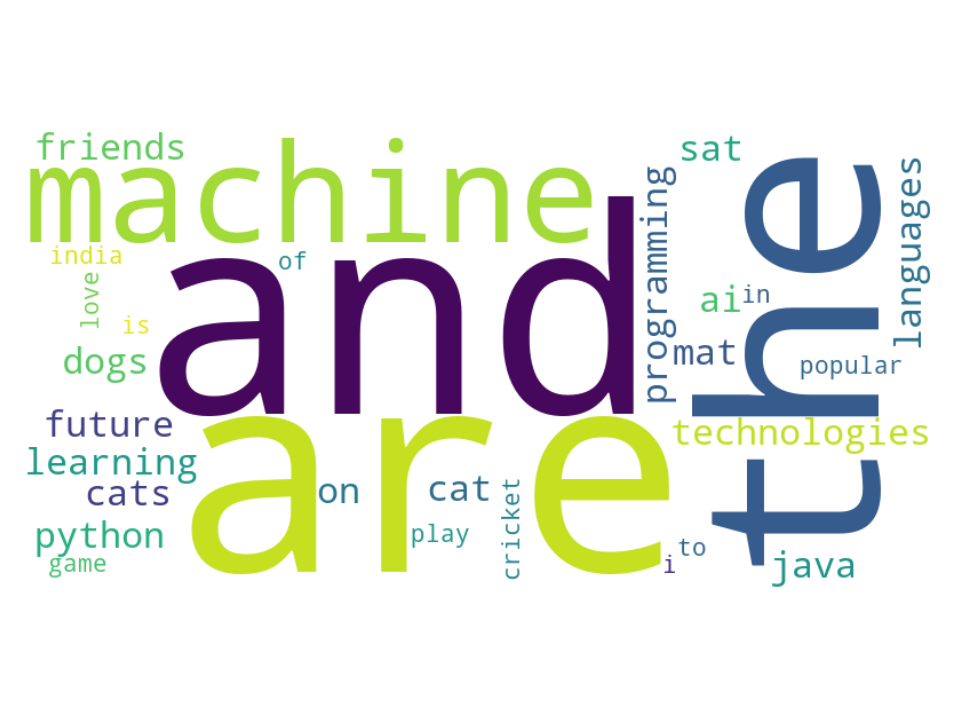
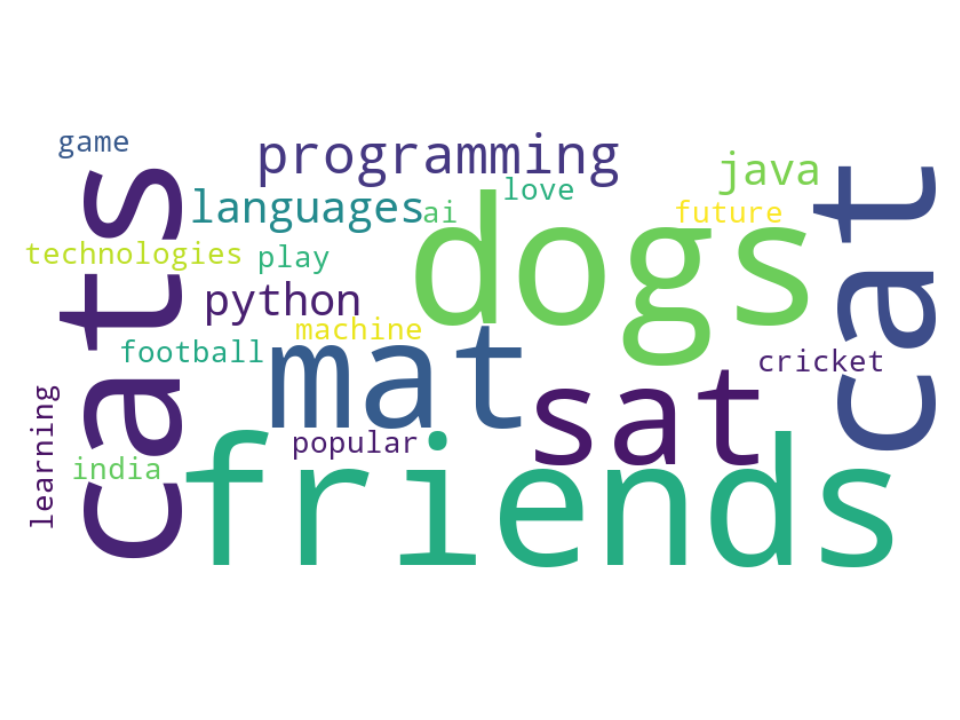
all programs

Changed region(s): [[0.0312, 0.1833, 1.0, 0.825]]

diff --git a/pyldavis_html/topics_2.html b/pyldavis_html/topics_2.html
@@ -2,10 +2,10 @@
 <link rel="stylesheet" type="text/css" href="https://cdn.jsdelivr.net/gh/bmabey/pyLDAvis@3.4.0/pyLDAvis/js/ldavis.v1.0.0.css">
 
 
-<div id="ldavis_el2868422122042350081931763623" style="background-color:white;"></div>
+<div id="ldavis_el2496819180047041129032564959" style="background-color:white;"></div>
 <script type="text/javascript">
 
-var ldavis_el2868422122042350081931763623_data = {"mdsDat": {"x": [0.06614517228839449, -0.06614517228839449], "y": [0.0, 0.0], "topics": [1, 2], "cluster": [1, 1], "Freq": [62.373591153601026, 37.626408846398974]}, "tinfo": {"Term": ["football", "to", "popular", "play", "i", "india", "game", "is", "in", "cricket", "love", "of", "and", "are", "the", "machine", "technologies", "ai", "future", "learning", "python", "languages", "programming", "cat", "mat", "java", "on", "sat", "cats", "dogs", "and", "are", "machine", "technologies", "ai", "future", "learning", "python", "languages", "programming", "cat", "mat", "java", "on", "sat", "cats", "dogs", "friends", "the", "of", "love", "cricket", "in", "is", "game", "india", "i", "play", "popular", "to", "football", "to", "popular", "play", "i", "india", "game", "is", "in", "cricket", "love", "of", "the", "friends", "dogs", "cats", "sat", "on", "java", "mat", "cat", "programming", "languages", "python", "learning", "future", "ai", "technologies", "machine", "are", "and"], "Freq": [1.0, 1.0, 1.0, 1.0, 1.0, 1.0, 1.0, 1.0, 1.0, 1.0, 1.0, 1.0, 2.0, 2.0, 2.0, 1.0, 1.0, 1.0, 1.0, 1.0, 1.0, 1.0, 1.0, 1.0, 1.0, 1.0, 1.0, 1.0, 1.0, 1.0, 2.043477278346361, 2.0424048498806853, 0.8761980429522029, 0.8760737258477163, 0.8760297935929495, 0.8759562006182326, 0.8759437345185435, 0.8742357069149218, 0.8740449326031265, 0.8739662672154327, 0.8738991222233137, 0.8738322351504986, 0.8735634832358199, 0.8735192930617492, 0.8734237769461997, 0.8726761548572535, 0.872485896384066, 0.8713252595164518, 1.4540840398041128, 0.2963588017184749, 0.2961588067915647, 0.29607865836787334, 0.29605841170251607, 0.2960181547978301, 0.29600923508856974, 0.29599848845090665, 0.29582647776847115, 0.2958059946770853, 0.29565824990249306, 0.2955758016983418, 0.7275309710746454, 0.7275025503483121, 0.7274341953897223, 0.7273114883851521, 0.7272944255768243, 0.7271518033187652, 0.7271428829448066, 0.7271354147247482, 0.7271020151850427, 0.7270852116899114, 0.7270186719236968, 0.7268527114779553, 0.738801915433988, 0.24965066814430115, 0.24868744927600883, 0.24852952753935786, 0.24790909478548084, 0.24782974494736065, 0.24779315585533856, 0.24757006871241438, 0.24751462755100884, 0.24745882335112823, 0.24739352828825678, 0.24723519165049146, 0.24581768199330123, 0.2458072576028031, 0.24574626713899306, 0.2457098595662085, 0.24560660105137366, 0.2505185894128903, 0.24962839314072427], "Total": [1.0, 1.0, 1.0, 1.0, 1.0, 1.0, 1.0, 1.0, 1.0, 1.0, 1.0, 1.0, 2.0, 2.0, 2.0, 1.0, 1.0, 1.0, 1.0, 1.0, 1.0, 1.0, 1.0, 1.0, 1.0, 1.0, 1.0, 1.0, 1.0, 1.0, 2.293105671487085, 2.292923439293576, 1.1218046440035767, 1.1217835854139246, 1.1217760607319427, 1.1217634582210358, 1.1217614165118448, 1.1214708985654132, 1.1214384608913832, 1.1214250905665608, 1.1214137497743226, 1.1214023038629128, 1.1213566390911585, 1.12134903800911, 1.1213328717316804, 1.1212056823966114, 1.121173345660075, 1.120975927660753, 2.1928859552381006, 1.0232115131964301, 1.0231774787152617, 1.0231638700577848, 1.0231604268875587, 1.0231535695225782, 1.0231521180333762, 1.0231502917696718, 1.0231209033452955, 1.0231174830622374, 1.0230924452922154, 1.023078352046654, 1.0230725124921172, 1.023078352046654, 1.0230924452922154, 1.0231174830622374, 1.0231209033452955, 1.0231502917696718, 1.0231521180333762, 1.0231535695225782, 1.0231604268875587, 1.0231638700577848, 1.0231774787152617, 1.0232115131964301, 2.1928859552381006, 1.120975927660753, 1.121173345660075, 1.1212056823966114, 1.1213328717316804, 1.12134903800911, 1.1213566390911585, 1.1214023038629128, 1.1214137497743226, 1.1214250905665608, 1.1214384608913832, 1.1214708985654132, 1.1217614165118448, 1.1217634582210358, 1.1217760607319427, 1.1217835854139246, 1.1218046440035767, 2.292923439293576, 2.293105671487085], "Category": ["Default", "Default", "Default", "Default", "Default", "Default", "Default", "Default", "Default", "Default", "Default", "Default", "Default", "Default", "Default", "Default", "Default", "Default", "Default", "Default", "Default", "Default", "Default", "Default", "Default", "Default", "Default", "Default", "Default", "Default", "Topic1", "Topic1", "Topic1", "Topic1", "Topic1", "Topic1", "Topic1", "Topic1", "Topic1", "Topic1", "Topic1", "Topic1", "Topic1", "Topic1", "Topic1", "Topic1", "Topic1", "Topic1", "Topic1", "Topic1", "Topic1", "Topic1", "Topic1", "Topic1", "Topic1", "Topic1", "Topic1", "Topic1", "Topic1", "Topic1", "Topic2", "Topic2", "Topic2", "Topic2", "Topic2", "Topic2", "Topic2", "Topic2", "Topic2", "Topic2", "Topic2", "Topic2", "Topic2", "Topic2", "Topic2", "Topic2", "Topic2", "Topic2", "Topic2", "Topic2", "Topic2", "Topic2", "Topic2", "Topic2", "Topic2", "Topic2", "Topic2", "Topic2", "Topic2", "Topic2", "Topic2"], "logprob": [30.0, 29.0, 28.0, 27.0, 26.0, 25.0, 24.0, 23.0, 22.0, 21.0, 20.0, 19.0, 18.0, 17.0, 16.0, 15.0, 14.0, 13.0, 12.0, 11.0, 10.0, 9.0, 8.0, 7.0, 6.0, 5.0, 4.0, 3.0, 2.0, 1.0, -2.4242, -2.4248, -3.2711, -3.2712, -3.2712, -3.2713, -3.2713, -3.2733, -3.2735, -3.2736, -3.2737, -3.2738, -3.2741, -3.2741, -3.2742, -3.2751, -3.2753, -3.2766, -2.7645, -4.3551, -4.3557, -4.356, -4.3561, -4.3562, -4.3563, -4.3563, -4.3569, -4.3569, -4.3574, -4.3577, -2.9516, -2.9516, -2.9517, -2.9519, -2.9519, -2.9521, -2.9521, -2.9521, -2.9521, -2.9522, -2.9523, -2.9525, -2.9362, -4.0211, -4.025, -4.0256, -4.0281, -4.0285, -4.0286, -4.0295, -4.0297, -4.03, -4.0302, -4.0309, -4.0366, -4.0367, -4.0369, -4.0371, -4.0375, -4.0177, -4.0212], "loglift": [30.0, 29.0, 28.0, 27.0, 26.0, 25.0, 24.0, 23.0, 22.0, 21.0, 20.0, 19.0, 18.0, 17.0, 16.0, 15.0, 14.0, 13.0, 12.0, 11.0, 10.0, 9.0, 8.0, 7.0, 6.0, 5.0, 4.0, 3.0, 2.0, 1.0, 0.3568, 0.3563, 0.2249, 0.2248, 0.2248, 0.2247, 0.2247, 0.223, 0.2228, 0.2227, 0.2226, 0.2226, 0.2223, 0.2223, 0.2222, 0.2214, 0.2212, 0.2201, 0.0612, -0.7671, -0.7677, -0.768, -0.7681, -0.7682, -0.7682, -0.7683, -0.7688, -0.7689, -0.7694, -0.7696, 0.6366, 0.6365, 0.6364, 0.6362, 0.6362, 0.636, 0.6359, 0.6359, 0.6359, 0.6359, 0.6357, 0.6355, -0.1105, -0.5244, -0.5285, -0.5291, -0.5317, -0.5321, -0.5322, -0.5332, -0.5334, -0.5336, -0.5339, -0.5346, -0.5406, -0.5406, -0.5409, -0.5411, -0.5415, -1.2366, -1.2402]}, "token.table": {"Topic": [1, 1, 1, 1, 1, 2, 1, 2, 1, 1, 2, 2, 2, 2, 2, 1, 1, 1, 2, 1, 1, 2, 1, 2, 2, 1, 1, 1, 1, 1, 2, 2], "Freq": [0.8914435197944182, 0.872179605531652, 0.8722489228058037, 0.8917315310261209, 0.8918970138132635, 0.9773605472831283, 0.8919227377915091, 0.977447822895843, 0.8920798166351307, 0.8914535347637941, 0.9773717733411162, 0.9774015922559132, 0.9773638363262226, 0.9773735178928304, 0.9773703867999189, 0.8917769469046742, 0.8917118815464408, 0.8914551572914087, 0.9773475480086171, 0.8914208060604282, 0.8917406327374963, 0.9773150390734764, 0.8917829918287011, 0.9774048597106897, 0.9774287793850146, 0.8917225130880432, 0.8916860894733881, 0.8917958486811277, 0.8914375401838421, 0.4560200668946422, 0.4560200668946422, 0.9774422437924857], "Term": ["ai", "and", "are", "cat", "cats", "cricket", "dogs", "football", "friends", "future", "game", "i", "in", "india", "is", "java", "languages", "learning", "love", "machine", "mat", "of", "on", "play", "popular", "programming", "python", "sat", "technologies", "the", "the", "to"]}, "R": 30, "lambda.step": 0.01, "plot.opts": {"xlab": "PC1", "ylab": "PC2"}, "topic.order": [1, 2]};
+var ldavis_el2496819180047041129032564959_data = {"mdsDat": {"x": [0.06224076334192857, -0.06224076334192857], "y": [0.0, 0.0], "topics": [1, 2], "cluster": [1, 1], "Freq": [54.29969373453913, 45.700306265460874]}, "tinfo": {"Term": ["dogs", "friends", "cats", "cat", "mat", "sat", "programming", "languages", "python", "java", "learning", "future", "technologies", "ai", "machine", "cricket", "game", "india", "popular", "love", "play", "football", "learning", "future", "technologies", "ai", "machine", "cricket", "game", "india", "popular", "love", "play", "football", "java", "python", "languages", "programming", "sat", "mat", "cat", "cats", "friends", "dogs", "dogs", "friends", "cats", "cat", "mat", "sat", "programming", "languages", "python", "java", "football", "play", "love", "popular", "india", "game", "cricket", "machine", "ai", "technologies", "future", "learning"], "Freq": [0.0, 0.0, 0.0, 0.0, 0.0, 0.0, 0.0, 0.0, 0.0, 0.0, 1.0, 1.0, 1.0, 1.0, 1.0, 1.0, 1.0, 1.0, 1.0, 1.0, 1.0, 1.0, 0.7760515229671472, 0.775915257637557, 0.7758981688437743, 0.7758464574417547, 0.7757874477007238, 0.7749400393381971, 0.7747462773378588, 0.7747347068004018, 0.7746221165705314, 0.7712594513731128, 0.7711008460058171, 0.7710723646828459, 0.2673113677418235, 0.2668829240904095, 0.266698930293809, 0.2666526703950144, 0.2651238018783352, 0.26497850262911504, 0.26451427931571847, 0.26408243125616804, 0.26388938128890405, 0.26382449727501034, 0.7143557556288194, 0.7142959036256706, 0.7141179956062986, 0.713719856186104, 0.7132919780359344, 0.7131579664794474, 0.7117485604228224, 0.7117059374068129, 0.7115363442464515, 0.7111413509891258, 0.24675374107899217, 0.24672752305508472, 0.24658135757180066, 0.24348152569658266, 0.24337772104906907, 0.24336702784074682, 0.24318840818929732, 0.24240731707561447, 0.2423529146760065, 0.24230525405397474, 0.24228944833099053, 0.24216386399647383], "Total": [0.0, 0.0, 0.0, 0.0, 0.0, 0.0, 0.0, 0.0, 0.0, 0.0, 1.0, 1.0, 1.0, 1.0, 1.0, 1.0, 1.0, 1.0, 1.0, 1.0, 1.0, 1.0, 1.018215386963621, 1.0182047059685475, 1.018203422897749, 1.0181993721177611, 1.0181947647763383, 1.0181284475274945, 1.0181133051786055, 1.0181124278494709, 1.0181036422671141, 1.0178408089449134, 1.0178283690609018, 1.017826105761838, 0.9784527187309493, 0.978419268336861, 0.9784048677006218, 0.9784012308178368, 0.9782817683577826, 0.9782704806650494, 0.9782341355018225, 0.9782004268624667, 0.9781852849145747, 0.9781802529038297, 0.9781802529038297, 0.9781852849145747, 0.9782004268624667, 0.9782341355018225, 0.9782704806650494, 0.9782817683577826, 0.9784012308178368, 0.9784048677006218, 0.978419268336861, 0.9784527187309493, 1.017826105761838, 1.0178283690609018, 1.0178408089449134, 1.0181036422671141, 1.0181124278494709, 1.0181133051786055, 1.0181284475274945, 1.0181947647763383, 1.0181993721177611, 1.018203422897749, 1.0182047059685475, 1.018215386963621], "Category": ["Default", "Default", "Default", "Default", "Default", "Default", "Default", "Default", "Default", "Default", "Default", "Default", "Default", "Default", "Default", "Default", "Default", "Default", "Default", "Default", "Default", "Default", "Topic1", "Topic1", "Topic1", "Topic1", "Topic1", "Topic1", "Topic1", "Topic1", "Topic1", "Topic1", "Topic1", "Topic1", "Topic1", "Topic1", "Topic1", "Topic1", "Topic1", "Topic1", "Topic1", "Topic1", "Topic1", "Topic1", "Topic2", "Topic2", "Topic2", "Topic2", "Topic2", "Topic2", "Topic2", "Topic2", "Topic2", "Topic2", "Topic2", "Topic2", "Topic2", "Topic2", "Topic2", "Topic2", "Topic2", "Topic2", "Topic2", "Topic2", "Topic2", "Topic2"], "logprob": [22.0, 21.0, 20.0, 19.0, 18.0, 17.0, 16.0, 15.0, 14.0, 13.0, 12.0, 11.0, 10.0, 9.0, 8.0, 7.0, 6.0, 5.0, 4.0, 3.0, 2.0, 1.0, -2.7339, -2.7341, -2.7341, -2.7342, -2.7343, -2.7354, -2.7356, -2.7356, -2.7358, -2.7401, -2.7403, -2.7404, -3.7997, -3.8013, -3.802, -3.8022, -3.8079, -3.8085, -3.8103, -3.8119, -3.8126, -3.8129, -2.6444, -2.6444, -2.6447, -2.6452, -2.6458, -2.646, -2.648, -2.6481, -2.6483, -2.6489, -3.7073, -3.7074, -3.708, -3.7207, -3.7211, -3.7212, -3.7219, -3.7251, -3.7253, -3.7255, -3.7256, -3.7261], "loglift": [22.0, 21.0, 20.0, 19.0, 18.0, 17.0, 16.0, 15.0, 14.0, 13.0, 12.0, 11.0, 10.0, 9.0, 8.0, 7.0, 6.0, 5.0, 4.0, 3.0, 2.0, 1.0, 0.3391, 0.3389, 0.3389, 0.3388, 0.3387, 0.3377, 0.3375, 0.3375, 0.3373, 0.3332, 0.333, 0.333, -0.6869, -0.6885, -0.6892, -0.6893, -0.6949, -0.6955, -0.6972, -0.6988, -0.6995, -0.6998, 0.4688, 0.4687, 0.4684, 0.4678, 0.4672, 0.467, 0.4649, 0.4648, 0.4646, 0.464, -0.634, -0.6341, -0.6347, -0.6476, -0.648, -0.6481, -0.6488, -0.6521, -0.6523, -0.6525, -0.6526, -0.6531]}, "token.table": {"Topic": [1, 2, 2, 1, 2, 1, 2, 1, 1, 1, 2, 2, 1, 1, 1, 2, 1, 1, 2, 2, 2, 1], "Freq": [0.9821259248275629, 1.0222501584316641, 1.0222853850181342, 0.9821943414197697, 1.0223064685996228, 0.9824860988916222, 1.0223012096193314, 0.9821207799749554, 0.9822089495476852, 0.9822097959380289, 1.0220217909936389, 1.0220717752050126, 0.9821104776093196, 0.9824719064237492, 0.9821303689571267, 1.022212179314844, 0.9824839141815715, 0.9822182717794812, 1.022075574418594, 1.0220567320795126, 1.0222003847405592, 0.982122017576858], "Term": ["ai", "cat", "cats", "cricket", "dogs", "football", "friends", "future", "game", "india", "java", "languages", "learning", "love", "machine", "mat", "play", "popular", "programming", "python", "sat", "technologies"]}, "R": 22, "lambda.step": 0.01, "plot.opts": {"xlab": "PC1", "ylab": "PC2"}, "topic.order": [2, 1]};
 
 function LDAvis_load_lib(url, callback){
   var s = document.createElement('script');
@@ -19,7 +19,7 @@ function LDAvis_load_lib(url, callback){
 if(typeof(LDAvis) !== "undefined"){
    // already loaded: just create the visualization
    !function(LDAvis){
-       new LDAvis("#" + "ldavis_el2868422122042350081931763623", ldavis_el2868422122042350081931763623_data);
+       new LDAvis("#" + "ldavis_el2496819180047041129032564959", ldavis_el2496819180047041129032564959_data);
    }(LDAvis);
 }else if(typeof define === "function" && define.amd){
    // require.js is available: use it to load d3/LDAvis
@@ -27,14 +27,14 @@ if(typeof(LDAvis) !== "undefined"){
    require(["d3"], function(d3){
       window.d3 = d3;
       LDAvis_load_lib("https://cdn.jsdelivr.net/gh/bmabey/pyLDAvis@3.4.0/pyLDAvis/js/ldavis.v3.0.0.js", function(){
-        new LDAvis("#" + "ldavis_el2868422122042350081931763623", ldavis_el2868422122042350081931763623_data);
+        new LDAvis("#" + "ldavis_el2496819180047041129032564959", ldavis_el2496819180047041129032564959_data);
       });
     });
 }else{
     // require.js not available: dynamically load d3 & LDAvis
     LDAvis_load_lib("https://d3js.org/d3.v5.js", function(){
          LDAvis_load_lib("https://cdn.jsdelivr.net/gh/bmabey/pyLDAvis@3.4.0/pyLDAvis/js/ldavis.v3.0.0.js", function(){
-                 new LDAvis("#" + "ldavis_el2868422122042350081931763623", ldavis_el2868422122042350081931763623_data);
+                 new LDAvis("#" + "ldavis_el2496819180047041129032564959", ldavis_el2496819180047041129032564959_data);
             })
          });
 }

diff --git a/NER.py b/NER.py
@@ -1,0 +1,60 @@
+import pandas as pd
+import spacy
+
+def perform_ner_and_extract_all(text):
+    """
+    Performs Named Entity Recognition (NER) on unstructured text and extracts
+    all identified entities into a structured DataFrame.
+
+    Args:
+        text (str): The unstructured text data.
+
+    Returns:
+        pd.DataFrame: A DataFrame with 'Entity', 'Label', and 'Description' columns.
+    """
+    try:
+        # Load the pre-trained NER model
+        nlp = spacy.load("en_core_web_sm")
+    except OSError:
+        print("Downloading 'en_core_web_sm' model...")
+        spacy.cli.download("en_core_web_sm")
+        nlp = spacy.load("en_core_web_sm")
+
+    # Process the text
+    doc = nlp(text)
+
+    # 1. Extract all identified entities
+    extracted_data = []
+    
+    # Iterate through the entities in the document
+    for ent in doc.ents:
+        extracted_data.append({
+            "Entity": ent.text,
+            "Label": ent.label_,
+            "Description": spacy.explain(ent.label_)
+        })
+
+    # 2. Create a DataFrame from the extracted data
+    df = pd.DataFrame(extracted_data)
+    
+    return df
+
+# --- Main script execution ---
+if __name__ == "__main__":
+    unstructured_text = """
+    A press release from Apple Inc. in Cupertino, California, announced that CEO Tim Cook 
+    will present the new iPhone 17 on September 25, 2026. The presentation will be held at 
+    the Steve Jobs Theater. A recent study by Dr. Emily Carter and Dr. John Smith from 
+    the National Aeronautics and Space Administration (NASA) revealed new data about Mars. 
+    Their work was funded by a grant from the U.S. government, totaling $10 million. 
+    The research, published in the journal Nature, is the culmination of three years of effort.
+    """
+    
+    print("--- Unstructured Text Data ---")
+    print(unstructured_text)
+    
+    # Perform the NER and extraction to get a comprehensive table
+    structured_table = perform_ner_and_extract_all(unstructured_text)
+    
+    print("\n--- Extracted Structured Information (Full Table of Entities) ---")
+    print(structured_table)

diff --git a/LDA.py b/LDA.py
@@ -5,6 +5,12 @@ from wordcloud import WordCloud
 import matplotlib.pyplot as plt
 import os
 
+# 🔹 NLTK stopwords
+from nltk.corpus import stopwords
+import nltk
+nltk.download('stopwords')
+stop_words = set(stopwords.words("english"))
+
 # Example corpus
 documents = [
     "The cat sat on the mat",
@@ -15,8 +21,11 @@ documents = [
     "Machine learning and AI are future technologies"
 ]
 
-# Tokenize
-texts = [doc.lower().split() for doc in documents]
+# Tokenize + stopword removal
+texts = [
+    [word for word in doc.lower().split() if word not in stop_words]
+    for doc in documents
+]
 
 # Dictionary & Corpus
 dictionary = corpora.Dictionary(texts)
